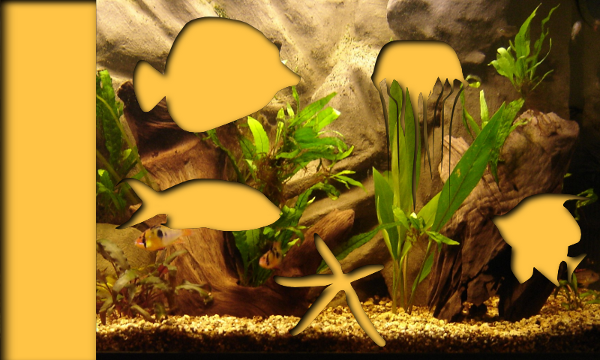
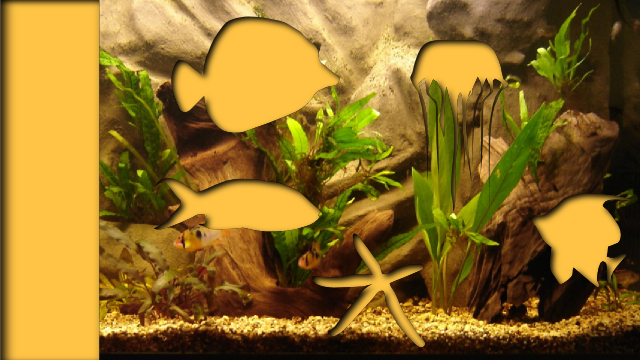
Changes: Repositioned aquarium board

diff --git a/qml/KidPuzzleSymbian/BoardAquarium.qml b/qml/KidPuzzleSymbian/BoardAquarium.qml
@@ -5,23 +5,23 @@ Board {
     source: "aquarium_board.png"
     Bit {
         source: "aquarium_1.png"
-        dockX: UI.leftMargin + 10; dockY:8; boardX: UI.leftMargin + 132; boardY: 17; dockW: 80; dockH: 60
+        dockX: UI.leftMargin + 5; dockY:8; boardX: UI.leftMargin + 171; boardY: UI.screenHeight - 344; dockW: 90; dockH: 62
     }
     Bit {
         source: "aquarium_2.png"
-        dockX: UI.leftMargin + 5; dockY: 85; boardX: UI.leftMargin + 115; boardY: 177; dockW: 90; dockH: 30
+        dockX: UI.leftMargin + 5; dockY: 85; boardX: UI.leftMargin + 152; boardY: UI.screenHeight - 182; dockW: 90; dockH: 30
     }
     Bit {
         source: "aquarium_3.png"
-        dockX: UI.leftMargin + 20; dockY: 145; boardX: UI.leftMargin + 272; boardY: 233; dockW: 55; dockH: 65
+        dockX: UI.leftMargin + 20; dockY: 145; boardX: UI.leftMargin + 312; boardY: UI.screenHeight - 127; dockW: 64; dockH: 65
     }
     Bit {
         source: "aquarium_4.png"
-        dockX: UI.leftMargin + 10; dockY: 220; boardX: UI.leftMargin + 489; boardY: 193; dockW: 80; dockH: 65
+        dockX: UI.leftMargin + 10; dockY: 220; boardX: UI.leftMargin + 530; boardY: UI.screenHeight - 166; dockW: 72; dockH: 65
     }
     Bit {
         source: "aquarium_5.png"
-        dockX: UI.leftMargin + 40; dockY: 290; boardX: UI.leftMargin + 371; boardY: 39; dockW: 30; dockH: 65
+        dockX: UI.leftMargin + 40; dockY: 290; boardX: UI.leftMargin + 410; boardY: UI.screenHeight - 319; dockW: 36; dockH: 65
     }
 }
 
